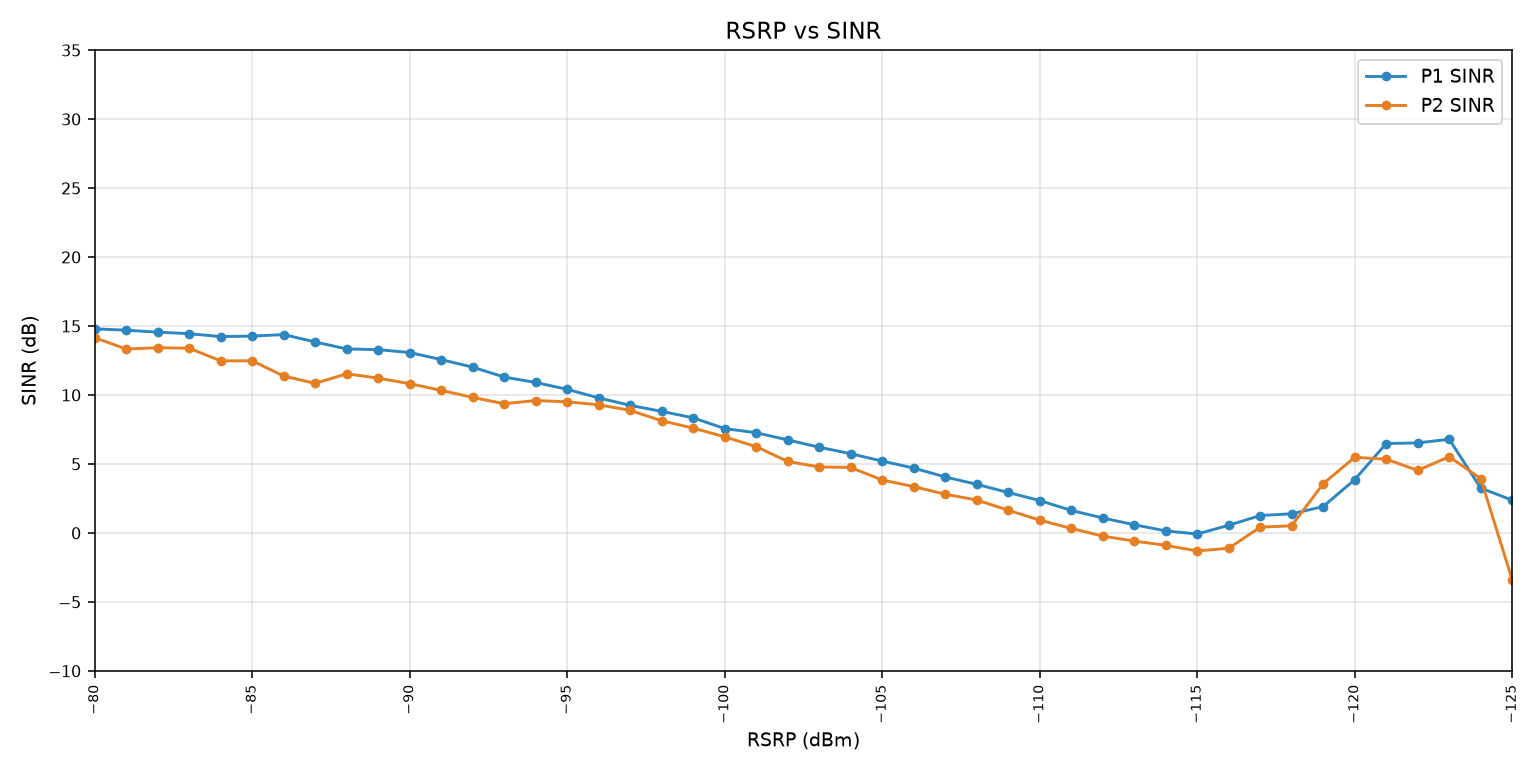
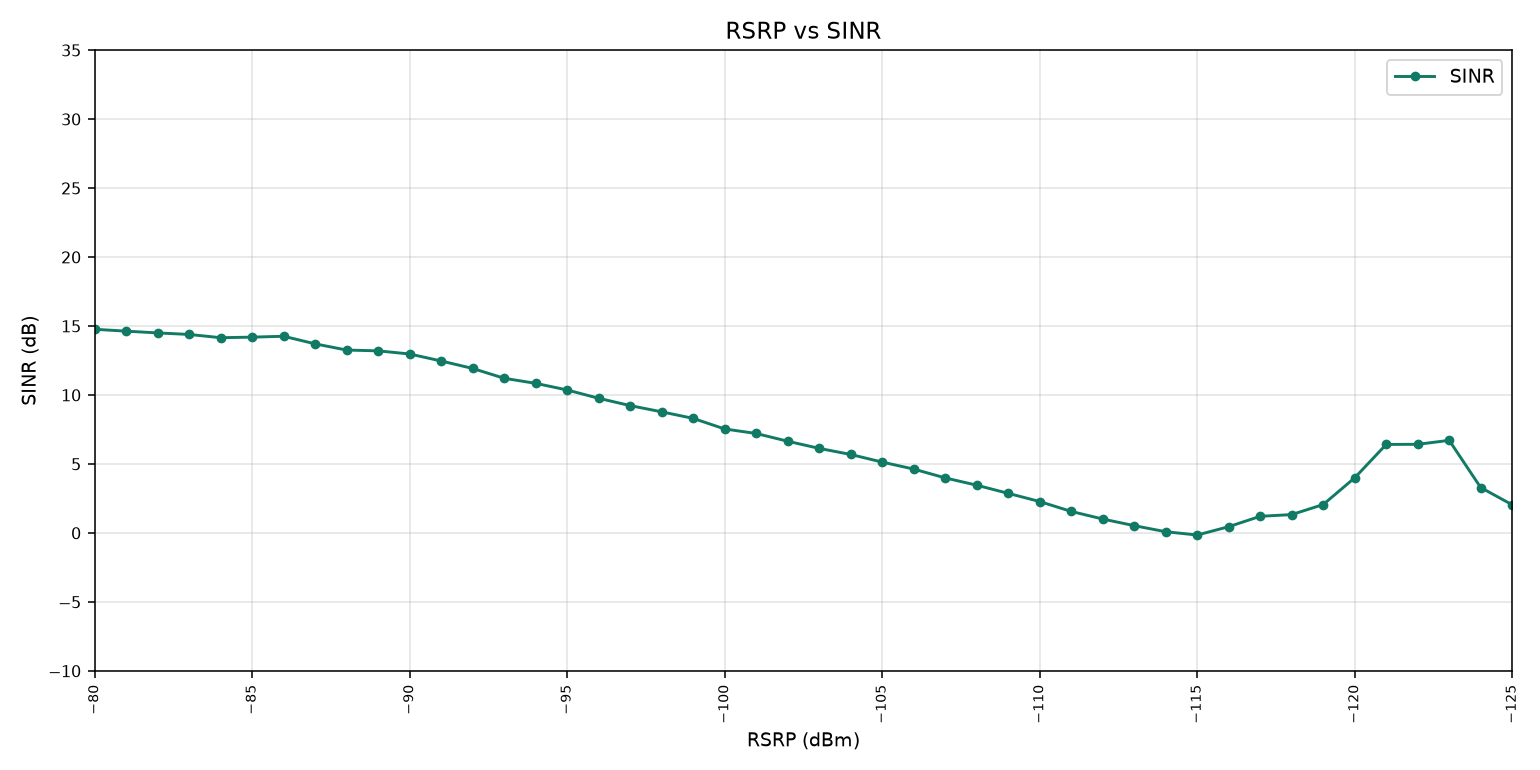
Merge P1 and P2 into one SINR line and one RSRQ line
RSRP vs KPIs now plots the combined log as a single binned-mean series
per KPI, instead of separate P1/P2 traces.

Changed region(s): [[0.0623, 0.4052, 0.8727, 0.7169], [0.8727, 0.561, 0.9974, 0.6857], [0.8727, 0.0935, 0.9662, 0.1558]]

diff --git a/generate_excel_report.py b/generate_excel_report.py
@@ -46,7 +46,7 @@ from merge_and_analyze import (
     rsrp_range_counts,
 )
 
-REPORT_VERSION = "1.5"
+REPORT_VERSION = "1.6"
 REPORT_XLSX = OUTPUT_DIR / "Bogura_DriveTest_Report.xlsx"
 VERSIONED_XLSX = OUTPUT_DIR / f"Bogura_DriveTest_Report_v{REPORT_VERSION}.xlsx"
 
@@ -431,26 +431,14 @@ def write_chart_data(ws: Worksheet, df: pd.DataFrame) -> dict:
     pair = df.copy()
     pair["rsrp_bin"] = pd.to_numeric(pair["RSRP"], errors="coerce").round().astype("Int64")
     ws.cell(1, 50, "RSRP_dBm")
-    ws.cell(1, 51, "P1 SINR")
-    ws.cell(1, 52, "P2 SINR")
-    ws.cell(1, 53, "P1 RSRQ")
-    ws.cell(1, 54, "P2 RSRQ")
-    ws.cell(1, 55, "SINR mean")
-    ws.cell(1, 56, "RSRQ mean")
-    grouped = pair.groupby(["Source", "rsrp_bin"], dropna=True)
-    sinr_by_src = grouped["SINR"].mean()
-    rsrq_by_src = grouped["RSRQ"].mean()
+    ws.cell(1, 51, "SINR")
+    ws.cell(1, 52, "RSRQ")
     all_mean = pair.groupby("rsrp_bin")[["SINR", "RSRQ"]].mean()
     for i, b in enumerate(rsrp_vs_bins, start=2):
         ws.cell(i, 50, int(b))
-        for src, scol, rcol in (("P1", 51, 53), ("P2", 52, 54)):
-            s_val = sinr_by_src.get((src, b), np.nan)
-            r_val = rsrq_by_src.get((src, b), np.nan)
-            ws.cell(i, scol, None if pd.isna(s_val) else float(s_val))
-            ws.cell(i, rcol, None if pd.isna(r_val) else float(r_val))
         if b in all_mean.index:
-            ws.cell(i, 55, None if pd.isna(all_mean.loc[b, "SINR"]) else float(all_mean.loc[b, "SINR"]))
-            ws.cell(i, 56, None if pd.isna(all_mean.loc[b, "RSRQ"]) else float(all_mean.loc[b, "RSRQ"]))
+            ws.cell(i, 51, None if pd.isna(all_mean.loc[b, "SINR"]) else float(all_mean.loc[b, "SINR"]))
+            ws.cell(i, 52, None if pd.isna(all_mean.loc[b, "RSRQ"]) else float(all_mean.loc[b, "RSRQ"]))
     blocks["vs_n"] = len(rsrp_vs_bins)
     return blocks
 
@@ -502,7 +490,7 @@ def build_cover(ws: Worksheet, df: pd.DataFrame) -> None:
     notes = [
         "Cover — dataset size, KPI scorecard, band mix, and overview histograms.",
         "RSRP / RSRQ / SINR — statistics table and coverage map (discrete range legend).",
-        "RSRP vs KPIs — RSRP levels on the horizontal axis, SINR/RSRQ levels on the vertical axis.",
+        "RSRP vs KPIs — merged P1+P2 as one SINR line and one RSRQ line vs RSRP.",
         "Sample Log — evenly spaced subset of the merged samples (full 1.07M rows stay in output/Bogura_merged.csv.gz).",
         "P1 is the split archive (part1–part5). P2 is the standalone archive. This report uses the concatenated final file.",
     ]
@@ -610,7 +598,7 @@ def add_dual_axis_vs_chart(ws_data, ws_dest, anchor, n_rows, width=22, height=9)
     sinr.x_axis.title = "RSRP (dBm)"
     sinr.width = width
     sinr.height = height
-    sinr.add_data(Reference(ws_data, min_col=55, min_row=1, max_row=1 + n_rows), titles_from_data=True)
+    sinr.add_data(Reference(ws_data, min_col=51, min_row=1, max_row=1 + n_rows), titles_from_data=True)
     sinr.set_categories(cats)
     sinr.series[0].graphicalProperties.line.solidFill = SINR_COLOR
     sinr.series[0].graphicalProperties.line.width = 20000
@@ -619,7 +607,7 @@ def add_dual_axis_vs_chart(ws_data, ws_dest, anchor, n_rows, width=22, height=9)
     rsrq = LineChart()
     rsrq.y_axis.axId = 200
     rsrq.y_axis.title = "RSRQ (dB)"
-    rsrq.add_data(Reference(ws_data, min_col=56, min_row=1, max_row=1 + n_rows), titles_from_data=True)
+    rsrq.add_data(Reference(ws_data, min_col=52, min_row=1, max_row=1 + n_rows), titles_from_data=True)
     rsrq.series[0].graphicalProperties.line.solidFill = RSRQ_COLOR
     rsrq.series[0].graphicalProperties.line.width = 20000
     sinr.y_axis.crosses = "min"
@@ -679,11 +667,9 @@ def save_binned_vs_preview(df: pd.DataFrame, path: Path) -> Path:
     pair = df.dropna(subset=["RSRP", "SINR"]).copy()
     pair["rsrp_bin"] = pair["RSRP"].round().astype(int)
     fig, ax = plt.subplots(figsize=(11, 5.5))
-    colors = {"P1": "#2E86C1", "P2": "#E67E22"}
-    for src in ("P1", "P2"):
-        g = pair.loc[pair["Source"] == src].groupby("rsrp_bin")["SINR"].mean().sort_index(ascending=False)
-        g = g.loc[(g.index <= -80) & (g.index >= -125)]
-        ax.plot(g.index, g.values, marker="o", ms=4, color=colors[src], label=f"{src} SINR")
+    g = pair.groupby("rsrp_bin")["SINR"].mean().sort_index(ascending=False)
+    g = g.loc[(g.index <= -80) & (g.index >= -125)]
+    ax.plot(g.index, g.values, marker="o", ms=4, color=f"#{SINR_COLOR}", label="SINR")
     ax.set_title("RSRP vs SINR")
     ax.set_xlabel("RSRP (dBm)")
     ax.set_ylabel("SINR (dB)")
@@ -713,19 +699,19 @@ def build_rsrp_vs_sheet(ws, data_ws, n_rows: int, scatter_sinr: Path, scatter_rs
         ws,
         4,
         1,
-        "Binned 1 dBm means (like a cluster line chart). Worse RSRP is to the right. Scatter plots below include a trend line.",
+        "Binned 1 dBm means of the merged P1+P2 log (one SINR line, one RSRQ line). Worse RSRP is to the right. Scatter plots below include a trend line.",
         wrap=True,
     )
     ws.merge_cells(start_row=4, start_column=1, end_row=4, end_column=12)
     add_vs_line_chart(
         data_ws, ws, "A6", "RSRP vs SINR",
-        50, 51, 52, 2, 1 + n_rows, "SINR (dB)",
-        ["2E86C1", "E67E22"], width=15, height=8,
+        50, 51, 51, 2, 1 + n_rows, "SINR (dB)",
+        [SINR_COLOR], width=15, height=8,
     )
     add_vs_line_chart(
         data_ws, ws, "I6", "RSRP vs RSRQ",
-        50, 53, 54, 2, 1 + n_rows, "RSRQ (dB)",
-        ["2E86C1", "E67E22"], width=15, height=8,
+        50, 52, 52, 2, 1 + n_rows, "RSRQ (dB)",
+        [RSRQ_COLOR], width=15, height=8,
     )
     add_dual_axis_vs_chart(data_ws, ws, "A24", n_rows, width=24, height=10)
     write_cell(ws, 40, 1, "RSRP vs SINR scatter (trend line)", size=14, bold=True)

diff --git a/README.md b/README.md
@@ -80,25 +80,25 @@ python merge_and_analyze.py --from-merged
 
 RSRP ranges used in the report (dBm): **≥ -85**, **-85 to -95**, **-95 to -105**, **-105 to -110**, **-110 to -115**, **-115 to -120**, **-120 to -125**, **<-125**.
 
-## Download Excel report (v1.5)
+## Download Excel report (v1.6)
 
-**v1.5 (current):** https://github.com/miles4482/Drive-test-Log-Analysis-and-Plot/raw/cursor/merge-bogura-drive-test-logs-7dfb/output/Bogura_DriveTest_Report_v1.5.xlsx
+**v1.6 (current):** https://github.com/miles4482/Drive-test-Log-Analysis-and-Plot/raw/cursor/merge-bogura-drive-test-logs-7dfb/output/Bogura_DriveTest_Report_v1.6.xlsx
 
 Latest copy: https://github.com/miles4482/Drive-test-Log-Analysis-and-Plot/raw/cursor/merge-bogura-drive-test-logs-7dfb/output/Bogura_DriveTest_Report.xlsx
 
-GitHub file page: https://github.com/miles4482/Drive-test-Log-Analysis-and-Plot/blob/cursor/merge-bogura-drive-test-logs-7dfb/output/Bogura_DriveTest_Report_v1.5.xlsx
+GitHub file page: https://github.com/miles4482/Drive-test-Log-Analysis-and-Plot/blob/cursor/merge-bogura-drive-test-logs-7dfb/output/Bogura_DriveTest_Report_v1.6.xlsx
 
 ## Excel report
 
-`output/Bogura_DriveTest_Report_v1.5.xlsx` (also saved as `output/Bogura_DriveTest_Report.xlsx`)
+`output/Bogura_DriveTest_Report_v1.6.xlsx` (also saved as `output/Bogura_DriveTest_Report.xlsx`)
 
-Cover sheet shows **Version 1.5** and the generated timestamp. Bump `REPORT_VERSION` in `generate_excel_report.py` when the file is updated again.
+Cover sheet shows **Version 1.6** and the generated timestamp. Bump `REPORT_VERSION` in `generate_excel_report.py` when the file is updated again.
 
 | Sheet | Contents |
 | --- | --- |
 | Cover | Dataset size, KPI scorecard, RSRP ranges, band mix, RSRP/RSRQ/SINR histograms with axis titles and tick levels |
 | RSRP / RSRQ / SINR | Statistics table and coverage map with a discrete range legend (same style on all three KPI sheets) |
-| RSRP vs KPIs | RSRP levels on the horizontal axis vs SINR/RSRQ on the vertical axis (P1/P2 binned means, combined dual-axis, scatter + trend) |
+| RSRP vs KPIs | One merged SINR line and one merged RSRQ line vs RSRP (P1+P2 combined), plus dual-axis and scatter + trend |
 | Sample Log | Evenly spaced subset of the merged samples |
 
 Every sheet has freeze panes disabled and worksheet gridlines turned off (screen and print). Charts are native Excel objects, not just pictures.
